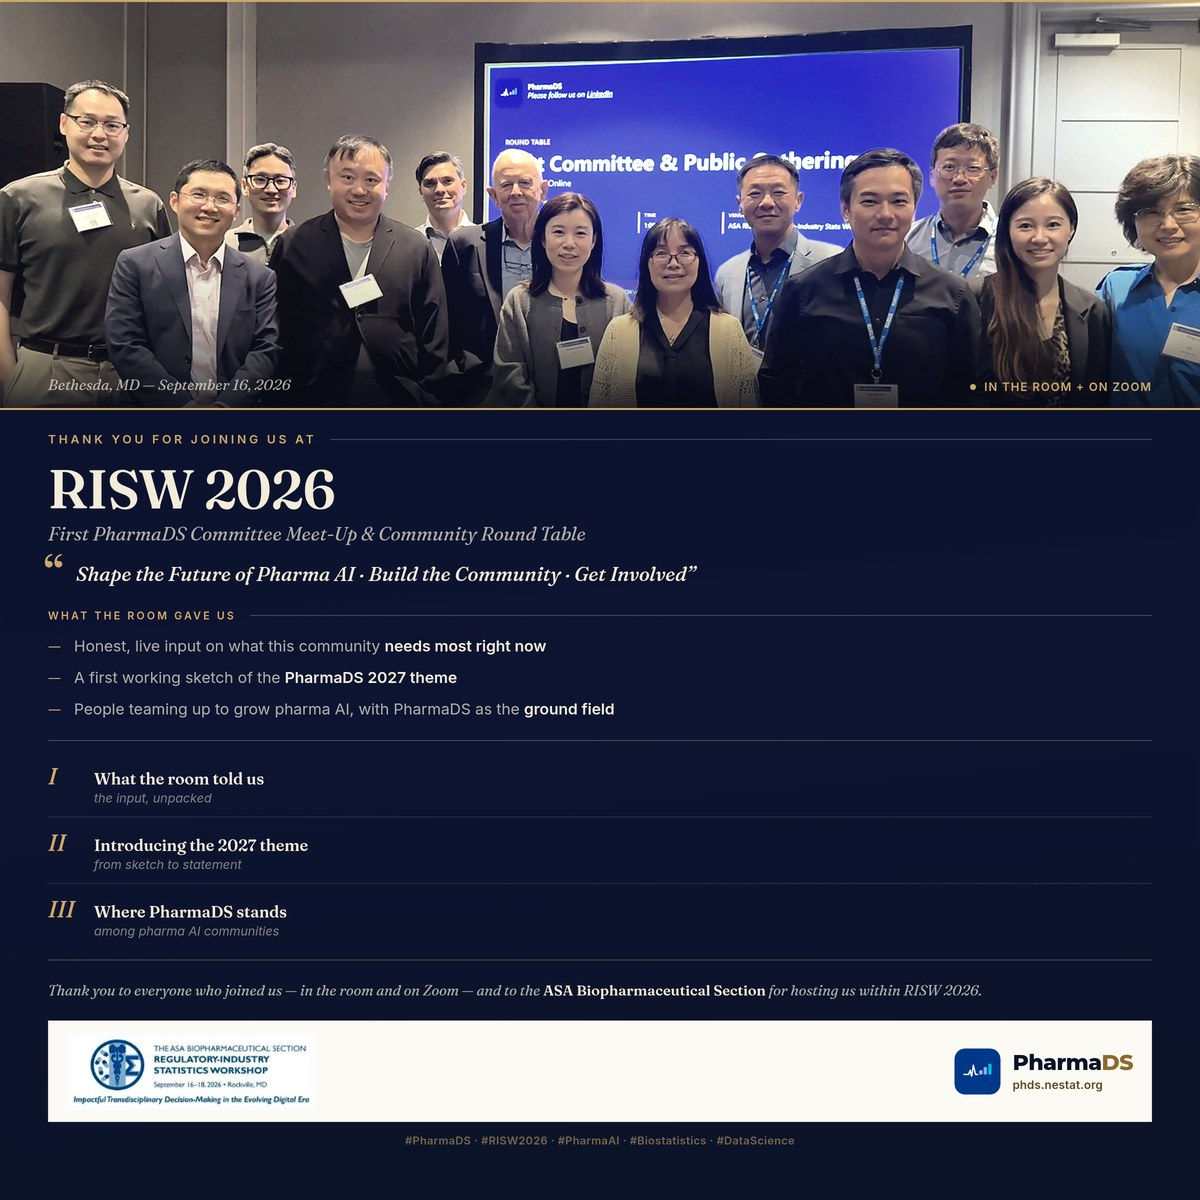
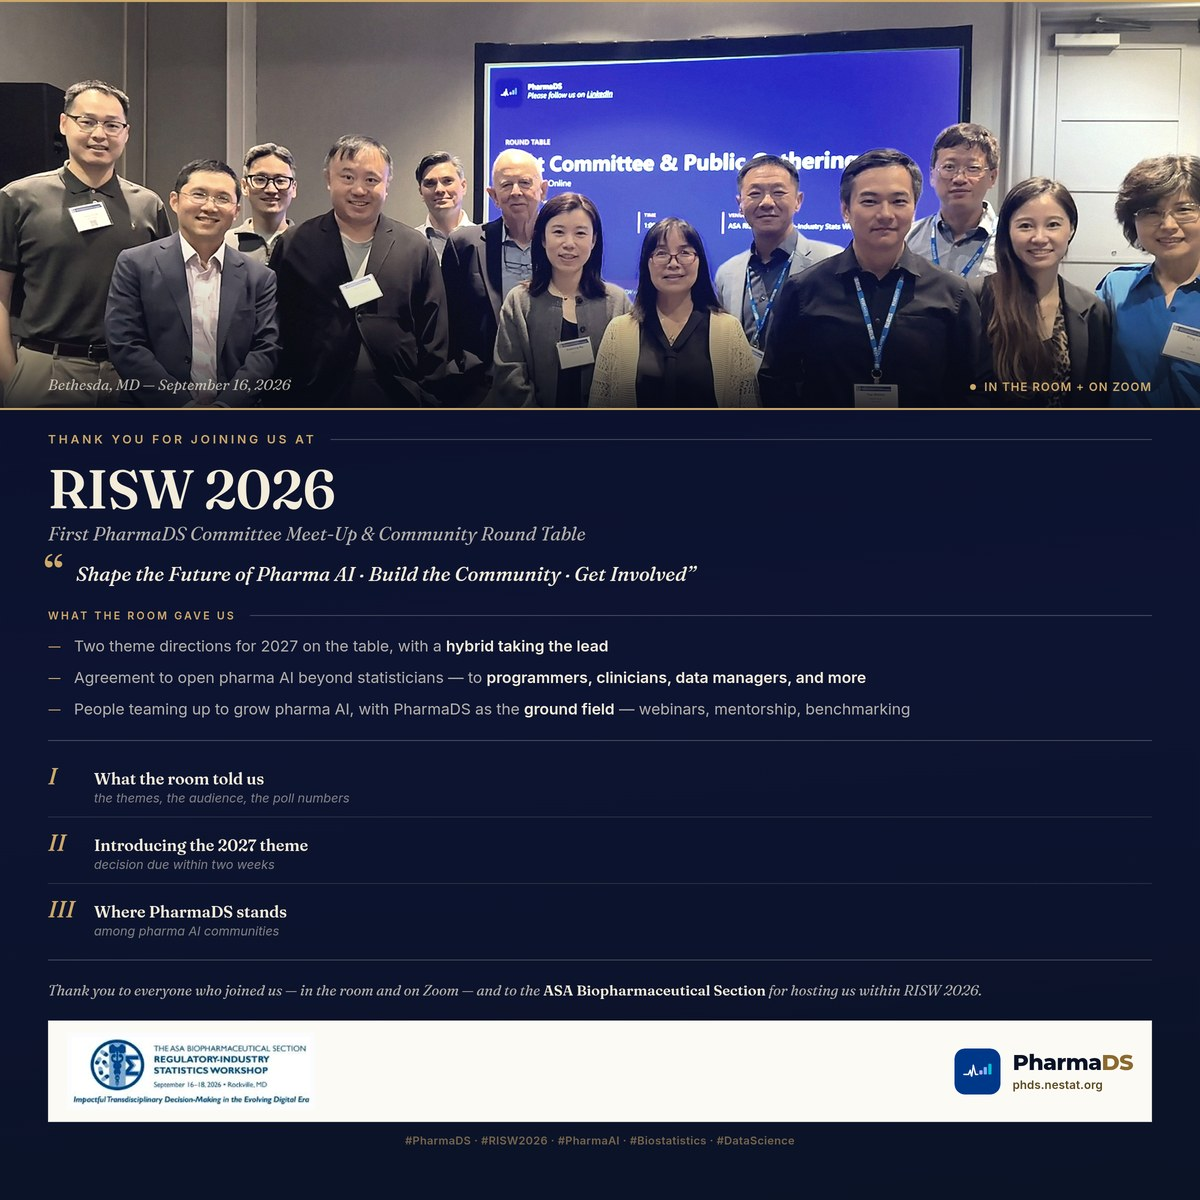
Ground post 1's poster copy in the actual roundtable meeting minutes
Replace the placeholder "what happened in the room" and "what's next"
language with facts drawn from the meeting minutes:

- "What the room gave us" now names the real discussion: two 2027
  theme options with a hybrid (Option C) the leading direction,
  consensus to open pharma AI beyond statisticians, and the three
  growth workstreams (webinars, mentorship, benchmarking) that were
  actually given owners in the room
- "What's coming next" keeps its job as a preview of posts 2-4, but
  "Introducing the 2027 theme" now carries the real timeline from the
  minutes: a decision expected within two weeks
- post-01-group-photo.md documents the source for each line and flags
  the one open judgment call: the minutes say Option C is the leading
  direction, not a confirmed decision, so the poster's theme lines need
  a check before publishing if the committee finalizes differently

Claude-Session: https://claude.ai/code/session_01T6bZZ7LoazGs74sY3LzxVU

diff --git a/social/2026-09-16-risw-roundtable/build/poster-portrait.html b/social/2026-09-16-risw-roundtable/build/poster-portrait.html
@@ -45,20 +45,20 @@
     <div class="sect">
       <div class="label">What the room gave us</div>
       <ul class="list">
-        <li><i>&mdash;</i><span>Honest, live input on what this community <b>needs most right now</b></span></li>
-        <li><i>&mdash;</i><span>A first working sketch of the <b>PharmaDS 2027 theme</b></span></li>
-        <li><i>&mdash;</i><span>People teaming up to grow pharma AI, with PharmaDS as the <b>ground field</b></span></li>
+        <li><i>&mdash;</i><span>Two theme directions for 2027 on the table, with a <b>hybrid taking the lead</b></span></li>
+        <li><i>&mdash;</i><span>Agreement to open pharma AI beyond statisticians &mdash; to <b>programmers, clinicians, data managers, and more</b></span></li>
+        <li><i>&mdash;</i><span>People teaming up to grow pharma AI, with PharmaDS as the <b>ground field</b> &mdash; webinars, mentorship, benchmarking</span></li>
       </ul>
     </div>
 
     <div class="next">
       <div class="entry">
         <span class="num">I</span>
-        <span class="cap"><b>What the room told us</b><span>the input, unpacked</span></span>
+        <span class="cap"><b>What the room told us</b><span>the themes, the audience, the poll numbers</span></span>
       </div>
       <div class="entry">
         <span class="num">II</span>
-        <span class="cap"><b>Introducing the 2027 theme</b><span>from sketch to statement</span></span>
+        <span class="cap"><b>Introducing the 2027 theme</b><span>decision due within two weeks</span></span>
       </div>
       <div class="entry">
         <span class="num">III</span>

diff --git a/social/2026-09-16-risw-roundtable/build/poster-square.html b/social/2026-09-16-risw-roundtable/build/poster-square.html
@@ -47,20 +47,20 @@
     <div class="sect">
       <div class="label">What the room gave us</div>
       <ul class="list">
-        <li><i>&mdash;</i><span>Honest, live input on what this community <b>needs most right now</b></span></li>
-        <li><i>&mdash;</i><span>A first working sketch of the <b>PharmaDS 2027 theme</b></span></li>
-        <li><i>&mdash;</i><span>People teaming up to grow pharma AI, with PharmaDS as the <b>ground field</b></span></li>
+        <li><i>&mdash;</i><span>Two theme directions for 2027 on the table, with a <b>hybrid taking the lead</b></span></li>
+        <li><i>&mdash;</i><span>Agreement to open pharma AI beyond statisticians &mdash; to <b>programmers, clinicians, data managers, and more</b></span></li>
+        <li><i>&mdash;</i><span>People teaming up to grow pharma AI, with PharmaDS as the <b>ground field</b> &mdash; webinars, mentorship, benchmarking</span></li>
       </ul>
     </div>
 
     <div class="next">
       <div class="entry">
         <span class="num">I</span>
-        <span class="cap"><b>What the room told us</b><span>the input, unpacked</span></span>
+        <span class="cap"><b>What the room told us</b><span>the themes, the audience, the poll numbers</span></span>
       </div>
       <div class="entry">
         <span class="num">II</span>
-        <span class="cap"><b>Introducing the 2027 theme</b><span>from sketch to statement</span></span>
+        <span class="cap"><b>Introducing the 2027 theme</b><span>decision due within two weeks</span></span>
       </div>
       <div class="entry">
         <span class="num">III</span>

diff --git a/social/2026-09-16-risw-roundtable/post-01-group-photo.md b/social/2026-09-16-risw-roundtable/post-01-group-photo.md
@@ -99,13 +99,25 @@ Room White Oak B, the Bethesda North Marriott, the Zoom ID and passcode, the two
 and the facilitator line-up. Facilitators are in the first comment instead, where they can be
 tagged.
 
-**"What the room gave us" vs. "what's coming" — kept deliberately distinct.** The first list is
-about the room itself: real-time input on what the community needs, a first sketch of the 2027
-theme, and people teaming up to grow pharma AI with PharmaDS as the ground field. The second is a
-table of contents for the next three posts, phrased as headlines rather than restating the same
-nouns — "What the room told us," "Introducing the 2027 theme," "Where PharmaDS stands" — so a
-reader doesn't hit the same sentence twice.
+**Both lists are now grounded in the meeting minutes**, not placeholder language:
 
-**Check before the room's claims go out:** the first list says live input was gathered, the 2027
-theme took its first sketch, and people teamed up to keep growing this. Reword any that overstate
-what actually happened — they're in `build/poster-portrait.html`, under "What the room gave us.
+- *"Two theme directions for 2027 on the table, with a hybrid taking the lead"* — Theme A ("Mapping
+  the Future of Pharma") and Theme B ("AI-Enabled Drug Development") were both presented; Option C,
+  a hybrid, was the direction most participants leaned toward, though no final call was made in
+  the room.
+- *"Agreement to open pharma AI beyond statisticians — to programmers, clinicians, data managers,
+  and more"* — a genuinely broad consensus (Jimeng, Stephen, Shui Xianjun, Qin Ji Liu and others
+  all raised it independently).
+- *"People teaming up to grow pharma AI, with PharmaDS as the ground field — webinars, mentorship,
+  benchmarking"* — the three growth workstreams actually discussed and given named owners in the
+  minutes (Jeen Liu on webinars, Yuqian on the mentorship program, Eric Scott on an AI-benchmarking
+  initiative), not an unattributed aspiration.
+
+The "what's coming next" table of contents keeps its job as a preview of posts 2–4, but now
+carries one real fact from the minutes: the 2027 theme decision is expected **within two weeks**
+of the roundtable, so "Introducing the 2027 theme" reads as a promise with a timeline.
+
+**One judgment call left to you:** the minutes say the theme is *not yet decided* — Option C is
+the leading direction, not a confirmed choice. If the committee finalizes on Option A or B instead
+before this posts, update "a hybrid taking the lead" and "decision due within two weeks" in
+`build/poster-portrait.html` (and `poster-square.html`) before publishing.
